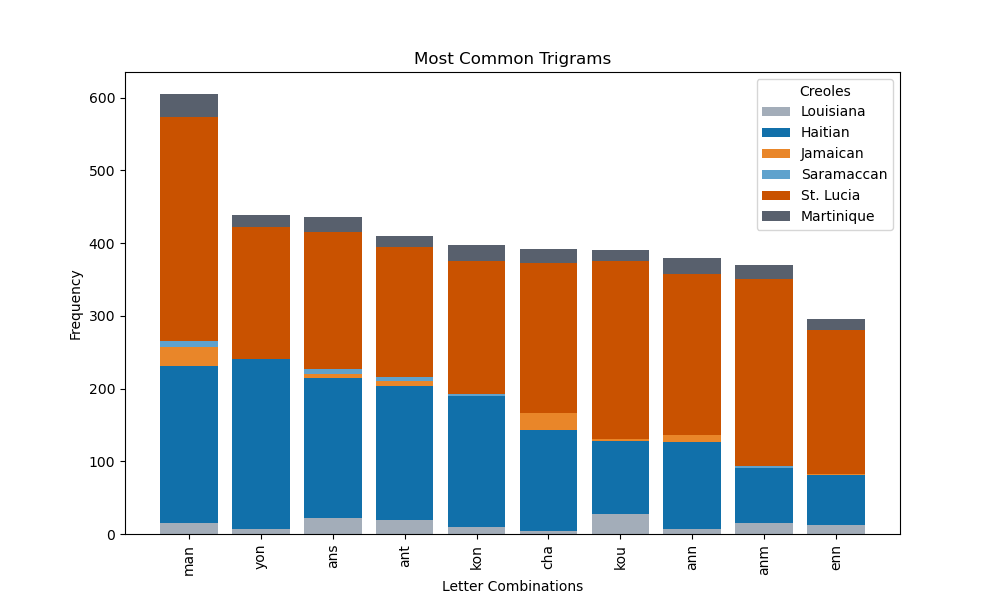
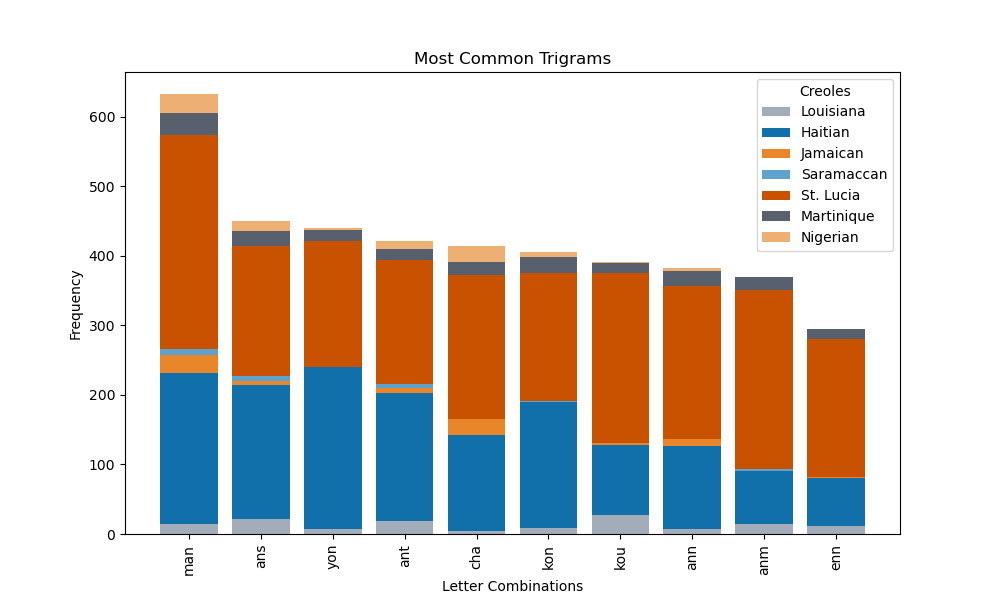
got the datasets working with Nigerian Creole data

diff --git a/vis_creation/generate.py b/vis_creation/generate.py
@@ -13,13 +13,14 @@ COLOR_KEY = { "louisiana": "#a3adb9",
             "jamaican": "#e98629",
             "saramaccan": "#5fa2cd",
             "st lucia": "#c95200",
-            "martinique": "#58606d"
+            "martinique": "#58606d",
+            "nigerian": "#edaf72"
             }
 
 TEST_IMG_DIR = "vis_creation\\test_images\\"
 IMG_DIR = "vis_Creation/"
 
-CREOLE_NAMES = ["louisiana", "haitian", "jamaican", "saramaccan", "st lucia", "martinique"]
+CREOLE_NAMES = ["louisiana", "haitian", "jamaican", "saramaccan", "st lucia", "martinique", "nigerian"]
 
 NUM_CREOLES = len(CREOLE_NAMES)
 
@@ -265,7 +266,8 @@ if __name__ == '__main__':
     surinam_df = pd.read_csv("merging\suriname.csv", usecols=["Creole_word"])
     lucia_df = pd.read_csv("merging\stLucia.csv", usecols=["Creole_word"])
     mart_df = pd.read_csv("merging\martinique.csv", usecols=["Creole_word"])
-    
+    nigerian_df = pd.read_csv("merging\\nigeria.csv", usecols=[" creole_word"])
+    print(nigerian_df.head(10))
     # drop any NaN values from the dataframe
     louisiana_df.dropna(inplace=True)
     haitian_df.dropna(inplace=True)
@@ -273,6 +275,7 @@ if __name__ == '__main__':
     surinam_df.dropna(inplace=True)
     lucia_df.dropna(inplace=True)
     mart_df.dropna(inplace=True)
+    nigerian_df.dropna(inplace=True)
    
     # get the creole words from each dataframe
     words_col_louisiana = louisiana_df.loc[:, "creole_word"].tolist()
@@ -281,6 +284,7 @@ if __name__ == '__main__':
     words_col_surinam = surinam_df.loc[:, "Creole_word"].tolist()
     words_col_lucia = lucia_df.loc[:, "Creole_word"].tolist()
     words_col_mart = mart_df.loc[:, "Creole_word"].tolist()
+    words_col_nigerian = nigerian_df.loc[:, " creole_word"].tolist()
 
     words_louisiana, totals["louisiana"] = get_words(words_col_louisiana)
     words_haitian, totals["haitian"] = get_words(words_col_haitian)
@@ -288,6 +292,7 @@ if __name__ == '__main__':
     words_surinam, totals["saramaccan"] = get_words(words_col_surinam)
     words_lucia, totals["st lucia"] = get_words(words_col_lucia)
     words_mart, totals["martinique"] = get_words(words_col_mart)
+    words_nigerian, totals["nigerian"] = get_words(words_col_nigerian)
     
     
     # get the n-gram data
@@ -297,7 +302,8 @@ if __name__ == '__main__':
     jamaican_bigrams = create_ngrams(words_jamaican[:], n) 
     surinam_bigrams = create_ngrams(words_surinam[:], n) 
     lucia_bigrams = create_ngrams(words_lucia[:], n) 
-    mart_bigrams = create_ngrams(words_mart[:], n) 
+    mart_bigrams = create_ngrams(words_mart[:], n)
+    nigerian_bigrams = create_ngrams(words_nigerian[:], n) 
 
     # print("Louisiana Bigrams")
     # print(louisiana_bigrams)
@@ -309,6 +315,7 @@ if __name__ == '__main__':
     # plot_ngrams(surinam_bigrams, "Saramaccan Creole", COLOR_KEY["saramaccan"], n)
     # plot_ngrams(lucia_bigrams, "St. Lucia Creole", COLOR_KEY["st lucia"], n)
     # plot_ngrams(mart_bigrams, "Martinique Creole", COLOR_KEY["martinique"], n)
+    plot_ngrams(nigerian_bigrams, "Nigerian Creole", COLOR_KEY["nigerian"], n)
 
     cum_freq = {}
     freq_dist = {}
@@ -348,7 +355,14 @@ if __name__ == '__main__':
         freq_dist[key]["martinique"] = mart_bigrams[key]
         cum_freq[key] = cum_freq.get(key, 0) + mart_bigrams[key]
 
+    for key in list(nigerian_bigrams.keys()):
+        # i = key
+        freq_dist[key] = freq_dist.get(key, {})
+        freq_dist[key]["nigerian"] = nigerian_bigrams[key]
+        cum_freq[key] = cum_freq.get(key, 0) + nigerian_bigrams[key]
+
     plot_stacked_bars(cum_freq, freq_dist, n)
     plot_count_pie(totals.values(), CREOLE_NAMES)
-    # all_words = words_louisiana + words_haitian + words_jamaican + words_surinam + words_lucia + words_mart
-    # make_word_cloud(all_words)
+    all_words = words_louisiana + words_haitian + words_jamaican + words_surinam + words_lucia + words_mart
+    make_word_cloud(all_words)
+    
